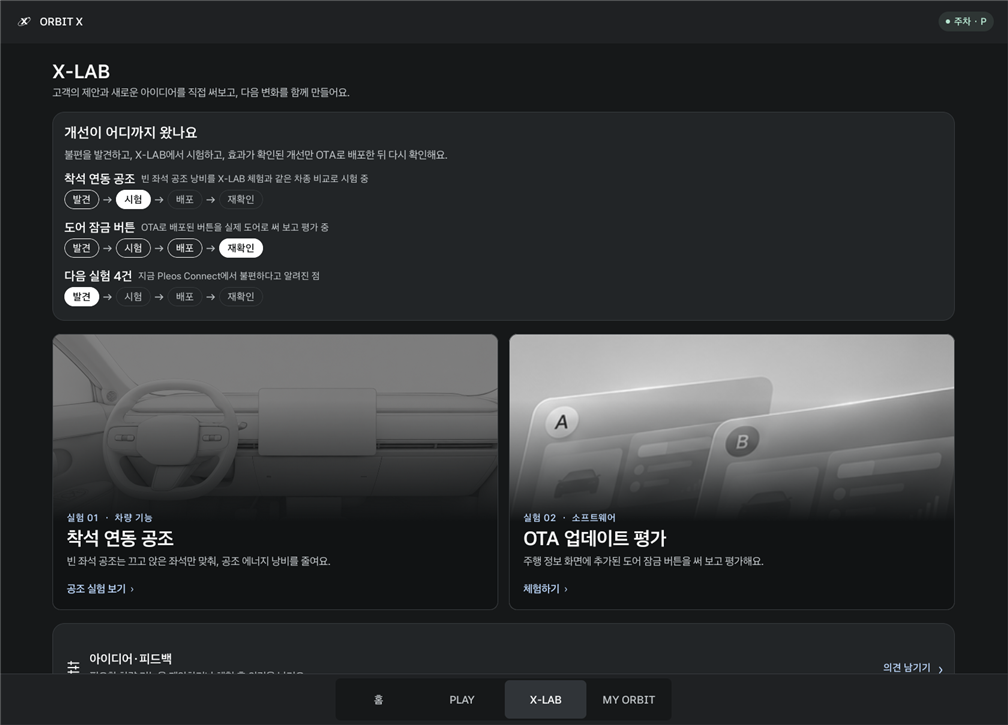
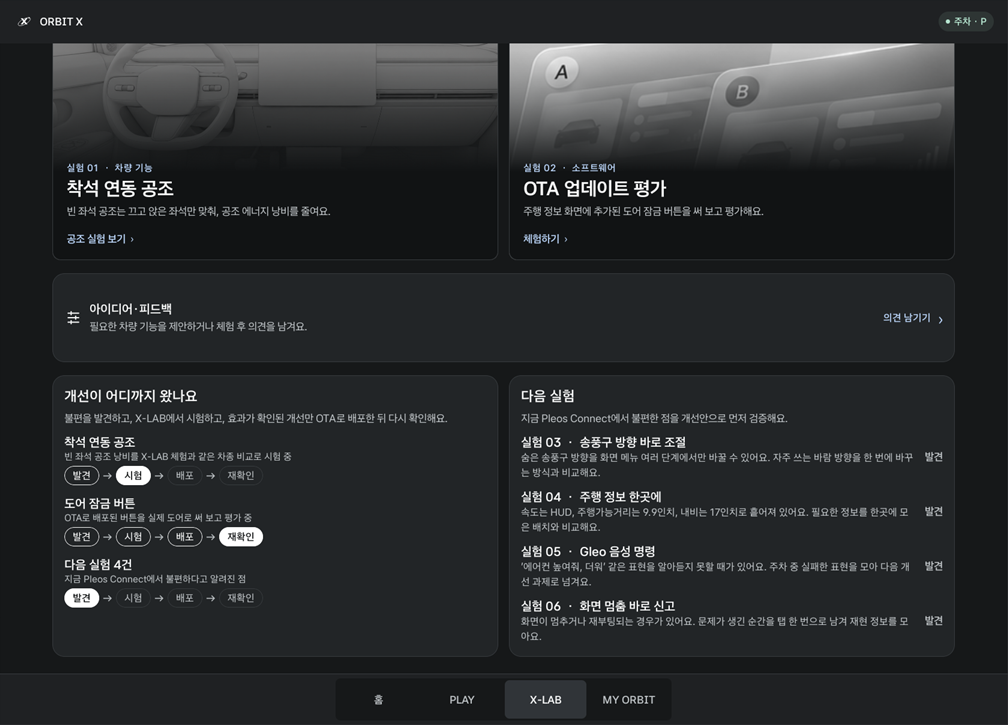
Place improvement stages and next experiments side by side at the bottom of X-LAB

diff --git a/app/src/main/java/com/example/orbitx/OrbitApp.kt b/app/src/main/java/com/example/orbitx/OrbitApp.kt
@@ -2124,9 +2124,9 @@ private val ExperimentStages = listOf("발견", "시험", "배포", "재확인")
 @Composable
 private fun ExperimentStage(title: String, note: String, stage: Int) {
     Column(Modifier.fillMaxWidth().padding(vertical = 4.dp), verticalArrangement = Arrangement.spacedBy(6.dp)) {
-        Row(verticalAlignment = Alignment.CenterVertically, horizontalArrangement = Arrangement.spacedBy(10.dp)) {
+        Column(verticalArrangement = Arrangement.spacedBy(2.dp)) {
             Text(title, style = MaterialTheme.typography.titleMedium)
-            Text(note, color = Muted, style = MaterialTheme.typography.bodySmall, modifier = Modifier.weight(1f, fill = false))
+            Text(note, color = Muted, style = MaterialTheme.typography.bodySmall)
         }
         Row(verticalAlignment = Alignment.CenterVertically, horizontalArrangement = Arrangement.spacedBy(6.dp)) {
             ExperimentStages.forEachIndexed { index, label ->
@@ -2159,13 +2159,6 @@ private fun ExperimentStage(title: String, note: String, stage: Int) {
 @Composable
 private fun LabOverview(data: OrbitData, onClimate: () -> Unit, onOta: () -> Unit, onFeedback: () -> Unit) {
     Intro("X-LAB", "고객의 제안과 새로운 아이디어를 직접 써보고, 다음 변화를 함께 만들어요.")
-    Panel {
-        Text("개선이 어디까지 왔나요", style = MaterialTheme.typography.titleLarge)
-        Text("불편을 발견하고, X-LAB에서 시험하고, 효과가 확인된 개선만 OTA로 배포한 뒤 다시 확인해요.", color = Muted)
-        ExperimentStage("착석 연동 공조", "빈 좌석 공조 낭비를 X-LAB 체험과 같은 차종 비교로 시험 중", stage = 1)
-        ExperimentStage("도어 잠금 버튼", "OTA로 배포된 버튼을 실제 도어로 써 보고 평가 중", stage = 3)
-        ExperimentStage("다음 실험 4건", "지금 Pleos Connect에서 불편하다고 알려진 점", stage = 0)
-    }
     AdaptivePair(
         first = { modifier ->
             FeatureCard(
@@ -2188,7 +2181,27 @@ private fun LabOverview(data: OrbitData, onClimate: () -> Unit, onOta: () -> Uni
         R.drawable.orbit_lab, "아이디어·피드백", "필요한 차량 기능을 제안하거나 체험 후 의견을 남겨요.",
         "의견 남기기", Modifier.fillMaxWidth().heightIn(min = 148.dp), onFeedback,
     )
-    Panel {
+    AdaptivePair(
+        first = { modifier -> ImprovementStages(modifier) },
+        second = { modifier -> NextExperiments(modifier) },
+        matchHeight = true,
+    )
+}
+
+@Composable
+private fun ImprovementStages(modifier: Modifier) {
+    Panel(modifier) {
+        Text("개선이 어디까지 왔나요", style = MaterialTheme.typography.titleLarge)
+        Text("불편을 발견하고, X-LAB에서 시험하고, 효과가 확인된 개선만 OTA로 배포한 뒤 다시 확인해요.", color = Muted)
+        ExperimentStage("착석 연동 공조", "빈 좌석 공조 낭비를 X-LAB 체험과 같은 차종 비교로 시험 중", stage = 1)
+        ExperimentStage("도어 잠금 버튼", "OTA로 배포된 버튼을 실제 도어로 써 보고 평가 중", stage = 3)
+        ExperimentStage("다음 실험 4건", "지금 Pleos Connect에서 불편하다고 알려진 점", stage = 0)
+    }
+}
+
+@Composable
+private fun NextExperiments(modifier: Modifier) {
+    Panel(modifier) {
         Text("다음 실험", style = MaterialTheme.typography.titleLarge)
         Text("지금 Pleos Connect에서 불편한 점을 개선안으로 먼저 검증해요.", color = Muted)
         // Each item is a known pain point of the current Pleos Connect, not a made-up idea.

diff --git a/README.md b/README.md
@@ -53,7 +53,7 @@ Pleos Connect v2.1.0 에뮬레이터에서 현재 빌드로 캡처했습니다. 
 | 슬로건과 인사말, PLAY·X-LAB 진입 | 이달 주행 기록, 빈 좌석 공조 인사이트, 같은 차종 비교(예시), 순위 |
 | **드라이브** | **X-LAB** |
 | ![드라이브](docs/screenshots/04_drive.png) | ![X-LAB](docs/screenshots/08_xlab_stages.png) |
-| 진행 중 카드, 드라이브 리포트, 나의 드라이브 기록 | 개선마다 발견 → 시험 → 배포 → 재확인 중 어디인지 표시 |
+| 진행 중 카드, 드라이브 리포트, 나의 드라이브 기록 | 아래쪽에 개선 진행 단계(발견 → 시험 → 배포 → 재확인)와 다음 실험을 나란히 표시 |
 | **착석 연동 공조** | **OTA 평가 (실제 도어 제어)** |
 | ![공조](docs/screenshots/09_climate.png) | ![OTA](docs/screenshots/10_ota.png) |
 | 빈 차량을 감지해 순정 공조를 끄고 "에너지 절약" 표시 | Vehicle SDK로 네 문을 잠그고 풀며 버튼을 평가 |
